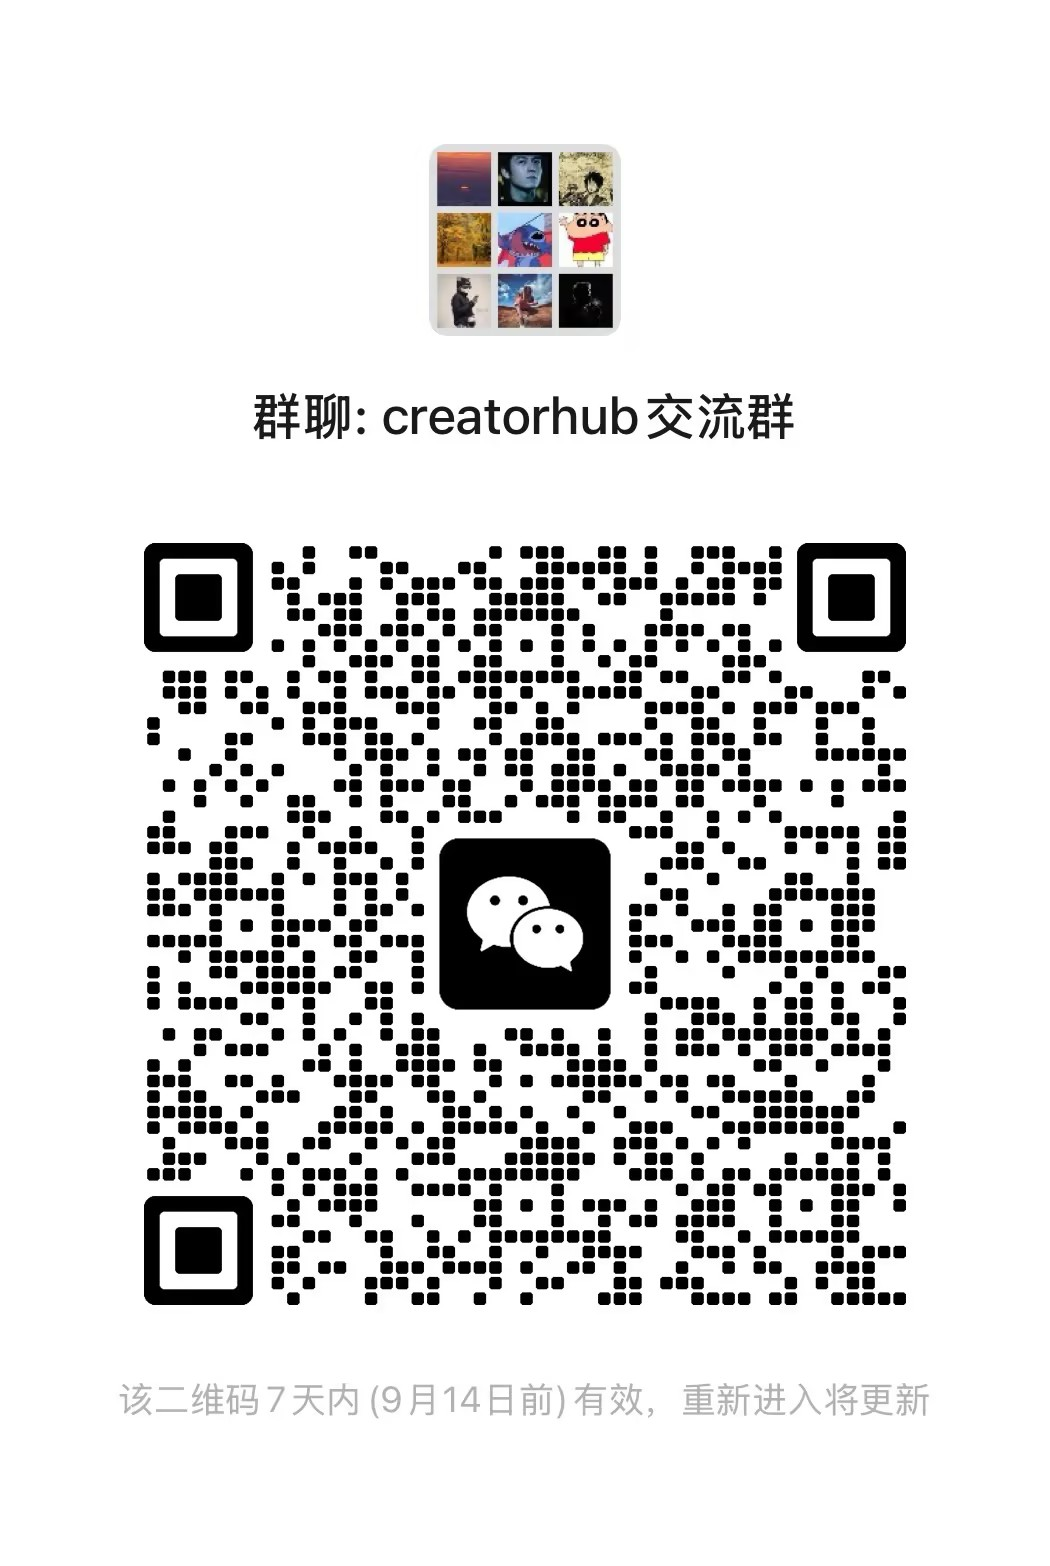
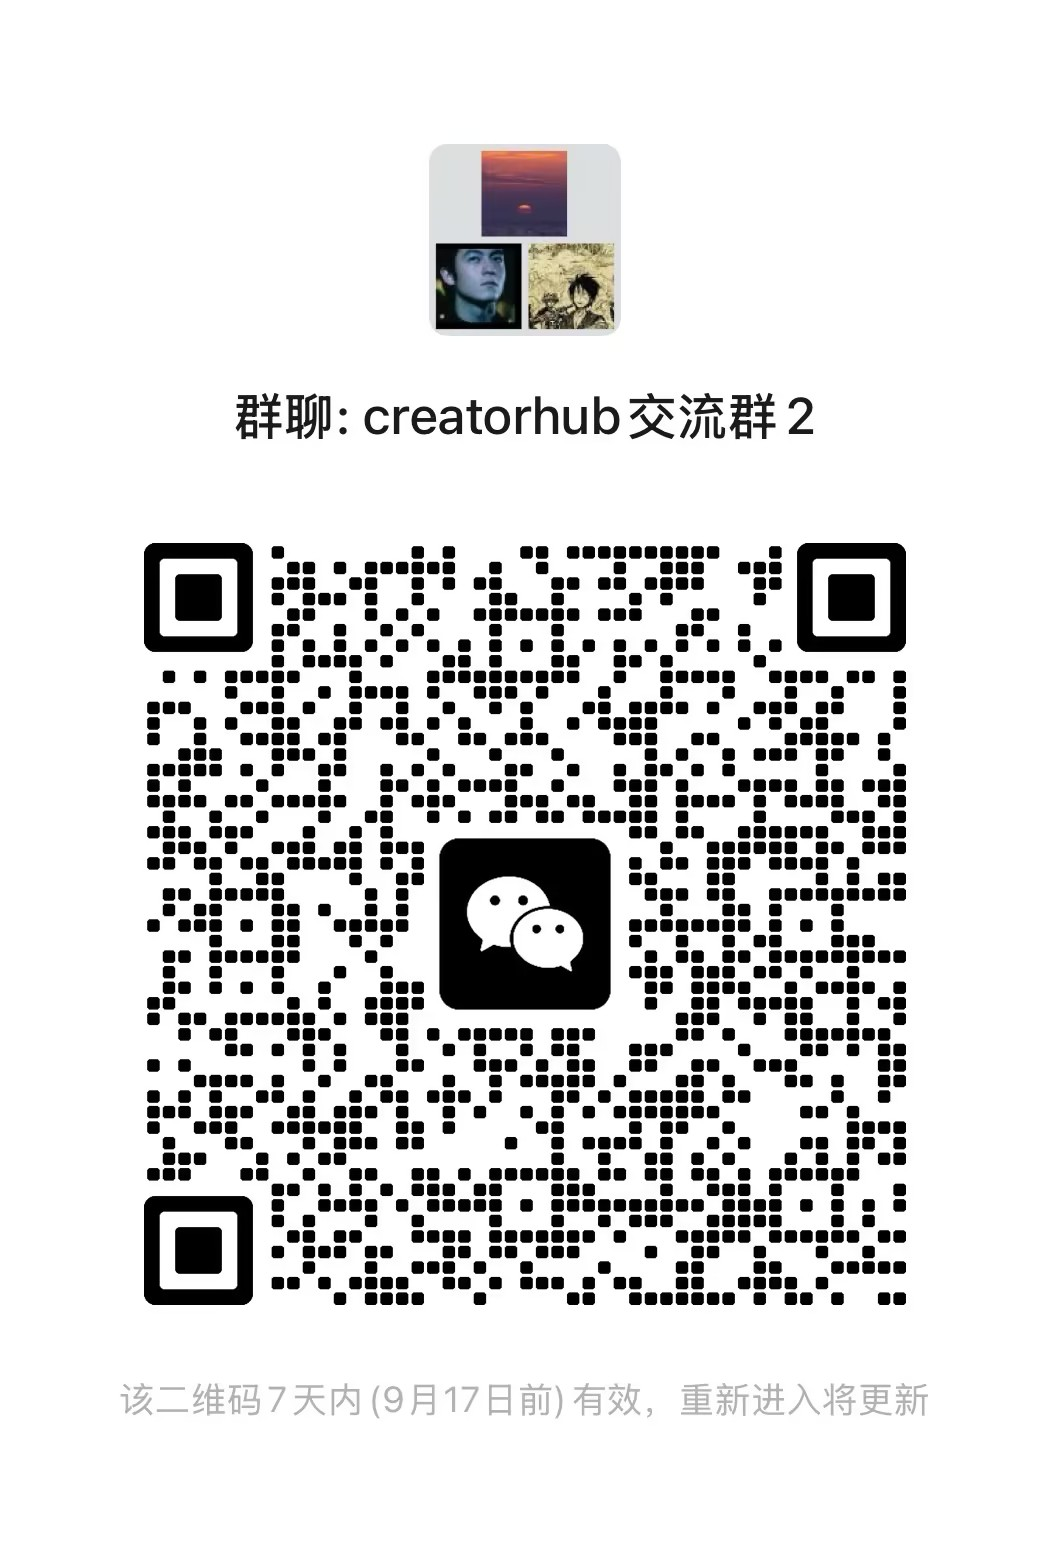
更新交流群二维码并新增作者微信入口

diff --git a/preview/community/index.html b/preview/community/index.html
@@ -4,7 +4,7 @@
   <meta charset="utf-8">
   <meta name="viewport" content="width=device-width, initial-scale=1">
   <meta name="theme-color" content="#f8fafc">
-  <meta name="description" content="CreatorHub 交流群固定入口，获取最新微信群二维码。">
+  <meta name="description" content="CreatorHub 交流群固定入口，获取最新群二维码，或添加作者个人微信。">
   <title>CreatorHub 交流群</title>
   <style>
     :root {
@@ -151,10 +151,39 @@
       padding: 0 34px 34px;
     }
 
+    .contact-grid {
+      display: grid;
+      grid-template-columns: minmax(0, 1fr);
+      gap: 28px;
+    }
+
+    .contact-panel {
+      min-width: 0;
+    }
+
+    .contact-panel h2 {
+      margin: 0 0 8px;
+      font-size: 22px;
+      line-height: 1.4;
+      text-align: center;
+    }
+
+    .contact-description {
+      margin: 0 0 18px;
+      color: var(--muted-foreground);
+      font-size: 14px;
+      text-align: center;
+    }
+
+    .personal-contact {
+      padding-top: 28px;
+      border-top: 1px solid var(--border);
+    }
+
     .qr-frame {
       position: relative;
       display: grid;
-      min-height: 420px;
+      aspect-ratio: 1050 / 1566;
       place-items: center;
       overflow: hidden;
       border: 1px solid var(--border);
@@ -162,13 +191,15 @@
       background:
         linear-gradient(90deg, transparent 49.5%, rgb(203 213 225 / 30%) 50%, transparent 50.5%),
         linear-gradient(transparent 49.5%, rgb(203 213 225 / 30%) 50%, transparent 50.5%),
-        #f1f5f9;
+        #ffffff;
     }
 
     .qr-image {
       display: block;
       width: 100%;
-      height: auto;
+      height: 100%;
+      min-height: 0;
+      object-fit: contain;
       background: #ffffff;
       opacity: 0;
       transition: opacity 180ms ease;
@@ -197,6 +228,10 @@
       grid-template-columns: 1fr 1fr;
       gap: 12px;
       margin-top: 16px;
+    }
+
+    .actions.single {
+      grid-template-columns: 1fr;
     }
 
     .button {
@@ -294,12 +329,26 @@
       }
 
       .qr-frame {
-        min-height: 340px;
         border-radius: 18px;
       }
 
       .actions {
         grid-template-columns: 1fr;
+      }
+    }
+
+    @media (min-width: 800px) {
+      .page {
+        width: min(100% - 48px, 1000px);
+      }
+
+      .contact-grid {
+        grid-template-columns: repeat(2, minmax(0, 1fr));
+      }
+
+      .personal-contact {
+        padding-top: 0;
+        border-top: 0;
       }
     }
 
@@ -327,40 +376,68 @@
       <header class="header">
         <p class="eyebrow">社区固定入口</p>
         <h1 id="group-name">CreatorHub 交流群</h1>
-        <p class="intro">长按下方图片，在微信中选择“识别图中二维码”加入群聊。</p>
-        <div id="status" class="status" role="status" aria-live="polite">正在获取最新二维码</div>
+        <p class="intro">微信扫码加入交流群，或添加作者微信沟通。</p>
+        <div id="status" class="status" role="status" aria-live="polite">正在获取最新群二维码</div>
       </header>
 
-      <section class="qr-section" aria-label="当前微信群二维码">
-        <div class="qr-frame">
-          <div id="loading" class="loading">正在加载最新群二维码…</div>
-          <img
-            id="qr-image"
-            class="qr-image"
-            width="1050"
-            height="1566"
-            alt="CreatorHub 交流群最新二维码"
-          >
-        </div>
+      <div class="qr-section contact-grid">
+        <section class="contact-panel" aria-labelledby="group-qr-title">
+          <h2 id="group-qr-title">扫码加群</h2>
+          <p class="contact-description">交流使用经验、问题反馈与功能建议。</p>
+          <div class="qr-frame">
+            <div id="loading" class="loading">正在加载最新群二维码…</div>
+            <img
+              id="qr-image"
+              class="qr-image"
+              width="1050"
+              height="1566"
+              alt="CreatorHub 交流群最新二维码"
+            >
+          </div>
 
-        <div class="actions">
-          <a id="open-image" class="button primary" href="#" target="_blank" rel="noopener">
-            <svg viewBox="0 0 24 24" fill="none" aria-hidden="true">
-              <path d="M12 3v12m0 0 4-4m-4 4-4-4M5 15v4h14v-4" stroke="currentColor" stroke-width="2" stroke-linecap="round" stroke-linejoin="round"/>
-            </svg>
-            查看二维码原图
-          </a>
-          <button id="refresh" class="button" type="button">
-            <svg viewBox="0 0 24 24" fill="none" aria-hidden="true">
-              <path d="M20 11a8 8 0 1 0-2.34 5.66M20 5v6h-6" stroke="currentColor" stroke-width="2" stroke-linecap="round" stroke-linejoin="round"/>
-            </svg>
-            刷新二维码
-          </button>
-        </div>
+          <div class="actions">
+            <a id="open-image" class="button primary" href="#" target="_blank" rel="noopener">
+              <svg viewBox="0 0 24 24" fill="none" aria-hidden="true">
+                <path d="M12 3v12m0 0 4-4m-4 4-4-4M5 15v4h14v-4" stroke="currentColor" stroke-width="2" stroke-linecap="round" stroke-linejoin="round"/>
+              </svg>
+              查看二维码原图
+            </a>
+            <button id="refresh" class="button" type="button">
+              <svg viewBox="0 0 24 24" fill="none" aria-hidden="true">
+                <path d="M20 11a8 8 0 1 0-2.34 5.66M20 5v6h-6" stroke="currentColor" stroke-width="2" stroke-linecap="round" stroke-linejoin="round"/>
+              </svg>
+              刷新二维码
+            </button>
+          </div>
 
-        <p class="hint">二维码会定期更新。以后仍访问本页面，即可获取最新版本。</p>
-        <p id="meta" class="meta"></p>
-      </section>
+          <p class="hint">群二维码会定期更新，固定入口保持不变。</p>
+          <p id="meta" class="meta"></p>
+        </section>
+
+        <section id="personal-wechat" class="contact-panel personal-contact" aria-labelledby="personal-qr-title">
+          <h2 id="personal-qr-title">添加作者微信</h2>
+          <p class="contact-description">群二维码过期或入群遇到问题时联系。</p>
+          <div class="qr-frame">
+            <img
+              class="qr-image ready"
+              src="wechat-personal.jpg?v=2026-09-10"
+              width="888"
+              height="1131"
+              alt="作者个人微信二维码，扫码添加好友"
+              decoding="async"
+            >
+          </div>
+          <div class="actions single">
+            <a class="button" href="wechat-personal.jpg?v=2026-09-10" target="_blank" rel="noopener">
+              <svg viewBox="0 0 24 24" fill="none" aria-hidden="true">
+                <path d="M12 3v12m0 0 4-4m-4 4-4-4M5 15v4h14v-4" stroke="currentColor" stroke-width="2" stroke-linecap="round" stroke-linejoin="round"/>
+              </svg>
+              查看个人微信原图
+            </a>
+          </div>
+          <p class="hint">微信扫一扫，或长按图片识别二维码。</p>
+        </section>
+      </div>
     </article>
 
     <p class="footer">CreatorHub · 多平台内容管理面板</p>
@@ -399,7 +476,7 @@
         elements.image.classList.remove("ready");
         elements.loading.hidden = false;
         elements.loading.textContent = "正在加载最新群二维码…";
-        setStatus("正在获取最新二维码", "warning");
+        setStatus("正在获取最新群二维码", "warning");
 
         try {
           const response = await fetch(`./config.json?t=${Date.now()}`, { cache: "no-store" });
@@ -430,9 +507,9 @@
           const expired = expiresAt && !Number.isNaN(expiresAt.valueOf()) && expiresAt <= new Date();
 
           if (expired) {
-            setStatus("本期二维码可能已过期，正在等待更新", "warning");
+            setStatus("本期群二维码可能已过期，正在等待更新", "warning");
           } else {
-            setStatus("当前二维码可用");
+            setStatus("当前群二维码可用");
           }
 
           const details = [];
@@ -446,9 +523,9 @@
         } catch (error) {
           console.error(error);
           elements.loading.hidden = false;
-          elements.loading.textContent = "二维码加载失败，请稍后刷新重试。";
+          elements.loading.textContent = "群二维码加载失败，请稍后刷新重试。";
           elements.meta.textContent = "";
-          setStatus("二维码暂时未加载", "error");
+          setStatus("群二维码暂时未加载", "error");
         } finally {
           elements.refresh.disabled = false;
         }

diff --git a/tests/test_guide_site.py b/tests/test_guide_site.py
@@ -28,7 +28,8 @@ class Links(HTMLParser):
             self.links.append(attrs["href"])
         if tag == "img":
             self.images.append(attrs)
-            self.links.append(attrs["src"])
+            if "src" in attrs:
+                self.links.append(attrs["src"])
 
 
 class GuideSiteTests(unittest.TestCase):
@@ -78,6 +79,15 @@ class GuideSiteTests(unittest.TestCase):
             build(target)
             self.assertTrue((target / "demo-api.js").is_file())
             self.assertTrue((target / "community" / "index.html").is_file())
+            community = self.parse(target / "community" / "index.html")
+            self.assertIn("personal-wechat", community.ids)
+            for name in ("wechat-group.jpg", "wechat-personal.jpg"):
+                self.assertEqual((target / "community" / name).read_bytes(),
+                                 (ROOT / "assets" / "community" / name).read_bytes())
+            for img in community.images:
+                self.assertTrue(img.get("alt", "").strip())
+                if img.get("src"):
+                    self.assertTrue((target / "community" / urlsplit(img["src"]).path).is_file())
             self.assertTrue((target / ".nojekyll").is_file())
             page = self.parse(target / "guide" / "index.html")
             for link in page.links:

diff --git a/preview/build_preview.py b/preview/build_preview.py
@@ -12,6 +12,7 @@ SOURCE = ROOT / "app" / "web"
 PREVIEW = ROOT / "preview"
 COMMUNITY = PREVIEW / "community"
 COMMUNITY_QR = ROOT / "assets" / "community" / "wechat-group.jpg"
+PERSONAL_QR = ROOT / "assets" / "community" / "wechat-personal.jpg"
 GUIDE = ROOT / "guide"
 GUIDE_IMAGES = (
     "overview-douyin.png", "accounts-list.png", "monitor-create.png",
@@ -84,6 +85,7 @@ def build(destination: Path) -> None:
     shutil.copy2(PREVIEW / "demo-api.js", destination / "demo-api.js")
     shutil.copytree(COMMUNITY, destination / "community")
     shutil.copy2(COMMUNITY_QR, destination / "community" / COMMUNITY_QR.name)
+    shutil.copy2(PERSONAL_QR, destination / "community" / PERSONAL_QR.name)
     build_guide(destination / "guide")
     (destination / ".nojekyll").write_text("", encoding="utf-8")
 

diff --git a/README.md b/README.md
@@ -374,14 +374,28 @@ data/
 
 欢迎加入 **CreatorHub 交流群**，交流使用经验、问题反馈和功能建议。
 
-<p align="center">
-  <a href="https://3441293738.github.io/creatorhub/community/">
-    <img src="assets/community/live-entry.png" alt="CreatorHub 交流群固定入口二维码" width="280">
-  </a>
-</p>
+<table>
+  <tr>
+    <th align="center">扫码加群（固定入口）</th>
+    <th align="center">添加作者微信</th>
+  </tr>
+  <tr>
+    <td align="center">
+      <a href="https://3441293738.github.io/creatorhub/community/">
+        <img src="assets/community/live-entry.png" alt="CreatorHub 交流群固定入口二维码" width="240">
+      </a>
+    </td>
+    <td align="center">
+      <a href="assets/community/wechat-personal.jpg">
+        <img src="assets/community/wechat-personal.jpg" alt="作者个人微信二维码，扫码添加好友" width="240">
+      </a>
+    </td>
+  </tr>
+</table>
 
 <p align="center">
   扫码或点击二维码打开<a href="https://3441293738.github.io/creatorhub/community/">交流群固定入口</a>；微信群二维码到期后会在入口页更新。
+  入群遇到问题，也可以添加作者微信联系。
 </p>
 
 ## 赞助商
